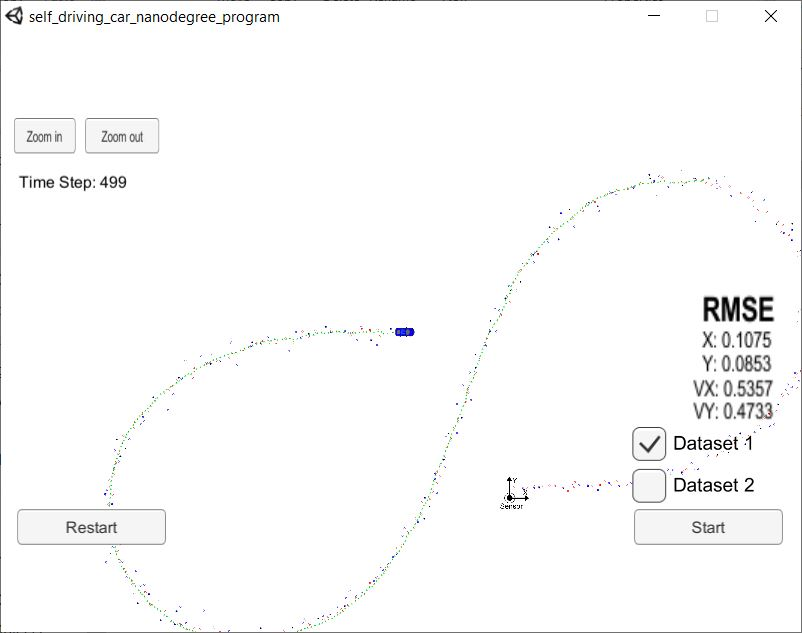
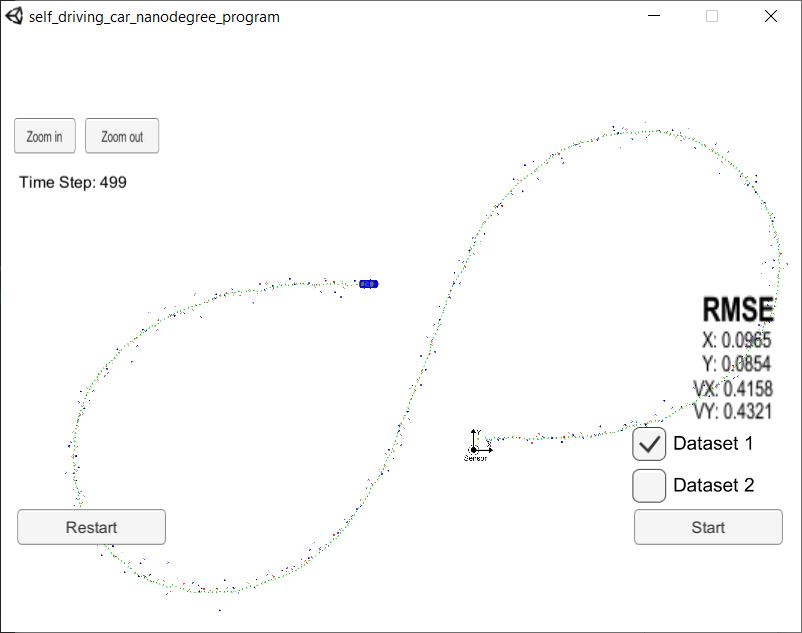
Fixed size mismatch when reading LSER data

diff --git a/src/FusionEKF.cpp b/src/FusionEKF.cpp
@@ -88,14 +88,17 @@ void FusionEKF::ProcessMeasurement(const MeasurementPackage &measurement_pack) {
       float vy = rho_dot * sin(phi);
       ekf_.x_ << px, py, vx, vy;
 
-      ekf_.P_ << 1, 0, 0, 0,
+      ekf_.P_ <<  1, 0, 0, 0,
                   0, 1, 0, 0,
                   0, 0, 1, 0,
                   0, 0, 0, 1;
     }
     else if (measurement_pack.sensor_type_ == MeasurementPackage::LASER) {
       // TODO: Initialize state.
-      ekf_.x_ << measurement_pack.raw_measurements_;
+      float px = measurement_pack.raw_measurements_(0);
+      float py = measurement_pack.raw_measurements_(1);
+      ekf_.x_ << px, py, 1 , 1 ; 
+
       ekf_.P_ << 1, 0, 0, 0,
             0, 1, 0, 0,
             0, 0, 1000, 0,
